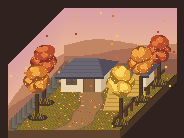
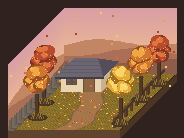
Autumn scene: remove second house and haystacks
Claude-Session: https://claude.ai/code/session_01FPZSaKiVNU2zED737yZX4w

Changed region(s): [[0.6793, 0.4638, 0.8696, 0.7246], [0.5435, 0.6377, 0.6522, 0.8116], [0.6793, 0.4638, 0.7065, 0.4928]]

diff --git a/tools/render_autumn.py b/tools/render_autumn.py
@@ -75,7 +75,6 @@ def build():
             b = sc.P(x, d, 0); sc.d.polygon([(b[0] - 9, b[1]), (b[0] + 9, b[1]), (b[0] + 3, b[1] - 22), (b[0] - 3, b[1] - 22)], fill=(214, 170, 78))
             for k in range(0, 18, 4): sc.d.line([(b[0] - 8 + k // 3, b[1] - k), (b[0] + 8 - k // 3, b[1] - k)], fill=(176, 132, 56))
         sc.jobs.append((d, f))
-    hay(int(130 * kx), int(70 * kd)); hay(int(145 * kx), int(120 * kd))
     for d in range(6, D - 8, 11): sc.box(W - 10, d, 2, 2, 10, (98, 68, 44), (80, 54, 36), (62, 42, 30)); 
     sc.box(W - 10, 6, 2, D - 14, 1.6, (98, 68, 44), (80, 54, 36), (62, 42, 30), z0=7)
     def house(x, d, w, dp, h):
@@ -99,7 +98,7 @@ def build():
                 z = h + 1 + (rh - 1) * k / 5; ax = (x - o) + (o + o2) * k / 5; bx = (x + w + o) - (o + o2) * k / 5; dd = d - o + (dm - d + o) * k / 5
                 sc.d.line([sc.P(ax, dd, z), sc.P(bx, dd, z)], fill=(84, 82, 102))
         sc.jobs.append((d, f))
-    house(14, D - 34, 40, 22, 16); house(66, D - 24, 28, 14, 12)
+    house(14, D - 34, 40, 22, 16)
     # 나무: 단풍(주황·빨강)·은행(노랑)·감나무
     for x, d, h, k, sp in ((16, 26, 42, 'orange', 11), (8, 56, 46, 'red', 11), (106, 14, 46, 'gold', 12), (102, 62, 42, 'orange', 11), (104, 94, 38, 'red', 10)):
         tree(sc, x, d, h, k, rng, sp)
